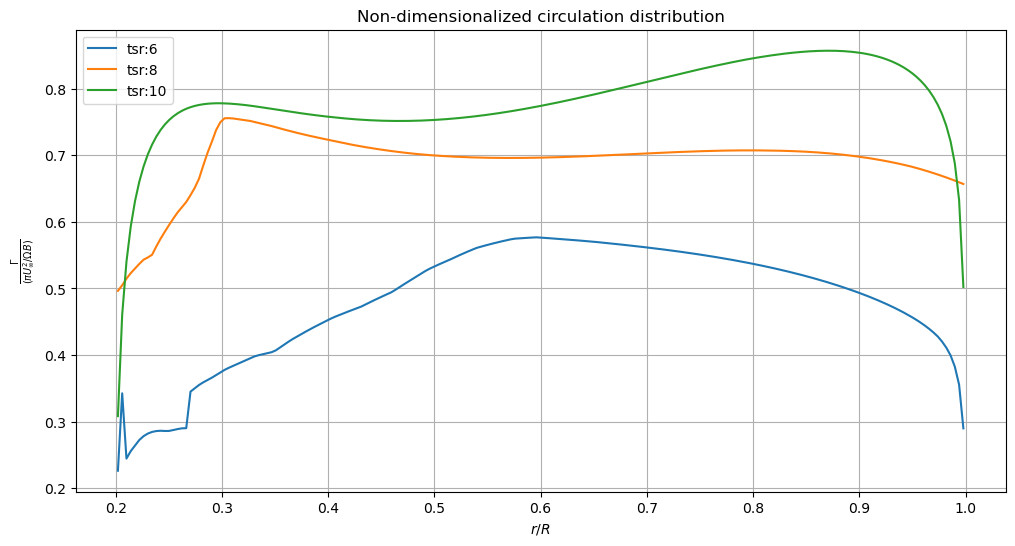
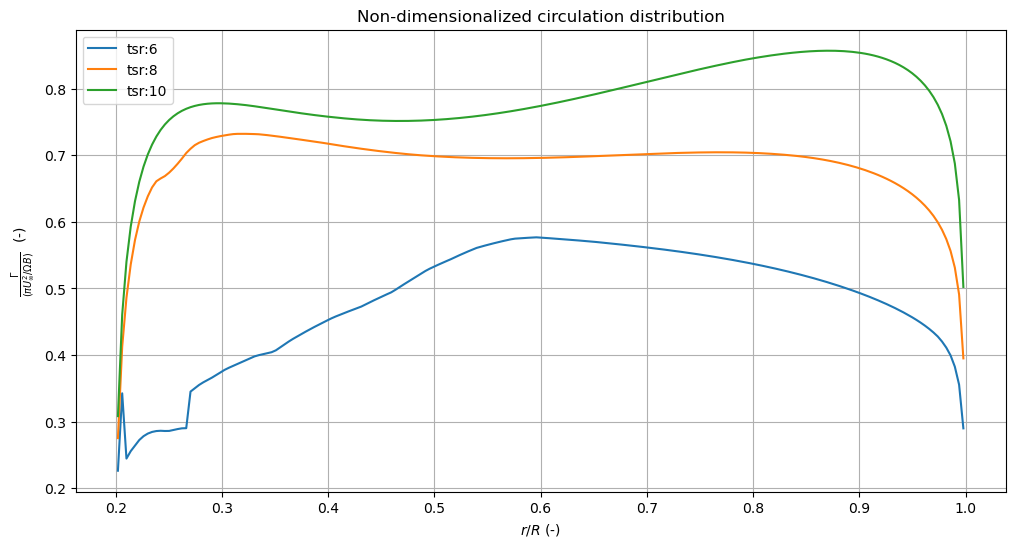
Update graph labels

diff --git a/src/task11.py b/src/task11.py
@@ -34,16 +34,16 @@ def plot_polar(df):
     axs[2].plot(df.alpha, df.cl / df.cd)
 
     axs[0].grid()
-    axs[0].set_xlabel(r"Angle of attack $\alpha$ [°]")
-    axs[0].set_ylabel(r"Lift coefficient $C_l$ [ ]")
+    axs[0].set_xlabel(r"Angle of attack $\alpha$ (deg)")
+    axs[0].set_ylabel(r"Lift coefficient $C_l$ (-)")
 
     axs[1].grid()
-    axs[1].set_xlabel(r"Angle of attack $\alpha$ [°]")
-    axs[1].set_ylabel(r"Drag coefficient $C_l$ [ ]")
+    axs[1].set_xlabel(r"Angle of attack $\alpha$ (deg)")
+    axs[1].set_ylabel(r"Drag coefficient $C_l$ (-)")
 
     axs[2].grid()
-    axs[2].set_xlabel(r"Angle of attack $\alpha$ [°]")
-    axs[2].set_ylabel("Ratio of lift and drag coefficients \n" + r"$C_l / C_d$ [ ]")
+    axs[2].set_xlabel(r"Angle of attack $\alpha$ (deg)")
+    axs[2].set_ylabel("Ratio of lift and drag coefficients \n" + r"$C_l / C_d$ (-)")
 
     maxid = df.idxmax()
 
@@ -70,6 +70,7 @@ def task11():
     ## Plot actual data from BEM results
     BEMresults_file = '../data/BEM_results.dat'
     df_BEM = pd.read_csv(BEMresults_file, delimiter=',')
+    check_TSR = 6
 
     tsr_list = [6, 8, 10]
     fig, ax = plt.subplots(1, 3, figsize=[14, 6])
@@ -77,7 +78,7 @@ def task11():
         df_iter = df_BEM.loc[(df_BEM['tsr'] == tsr) & ~(df_BEM['end_correction'] == 1)]
 
         # CHECK TSR = 6 Conditions : Start
-        if tsr == 6:
+        if tsr == check_TSR:
             print(f'\nChecking operational conditions @ tsr={tsr}')
 
             # Find index of max AoA for tsr = 6
@@ -100,20 +101,20 @@ def task11():
 
     ax[0].plot(df_iter['r_centre'] / 50, df_iter.shape[0] * [AoA_opt], '--', label='AoA opt.')
     ax[0].set_title(r'AoA distribution along the blade')
-    ax[0].set_xlabel(r'$r/R$ [-]')
-    ax[0].set_ylabel(r'$AoA$ [deg]')
+    ax[0].set_xlabel(r'$r/R$ (-)')
+    ax[0].set_ylabel(r'$AoA$ (deg)')
     ax[0].grid()
     ax[0].legend()
 
     ax[1].set_title(r'Lift to Drag ratio along the blade')
-    ax[1].set_xlabel(r'$r/R$ [-]')
-    ax[1].set_ylabel(r'$c_l/c_d$ [-]')
+    ax[1].set_xlabel(r'$r/R$ (-)')
+    ax[1].set_ylabel(r'$c_l/c_d$ (-)')
     ax[1].grid()
     ax[1].legend()
 
     ax[2].set_title(r'Lift vs Chord')
-    ax[2].set_xlabel(r'Chord [m]')
-    ax[2].set_ylabel(r'$c_l$ [-]')
+    ax[2].set_xlabel(r'Chord (m)')
+    ax[2].set_ylabel(r'$c_l$ (-)')
     ax[2].grid()
     ax[2].legend()
     plt.show()
@@ -122,7 +123,6 @@ def task11():
     # breakpoint()
 
     print("Task 11 - Done")
-
 
 if __name__ == "__main__":
     task11()

diff --git a/src/task10.py b/src/task10.py
@@ -59,8 +59,8 @@ def task10():
                 label=f'tsr:{tsr}')
 
     ax.set_title('Non-dimensionalized circulation distribution')
-    ax.set_xlabel(r'$r/R$')
-    ax.set_ylabel(r'$\frac{\Gamma }{(\pi U_{\infty}^2 / \Omega B)}$')
+    ax.set_xlabel(r'$r/R$ (-)')
+    ax.set_ylabel(r'$\frac{\Gamma }{(\pi U_{\infty}^2 / \Omega B)}$  (-)')
     ax.grid()
     ax.legend()
     plt.show()
